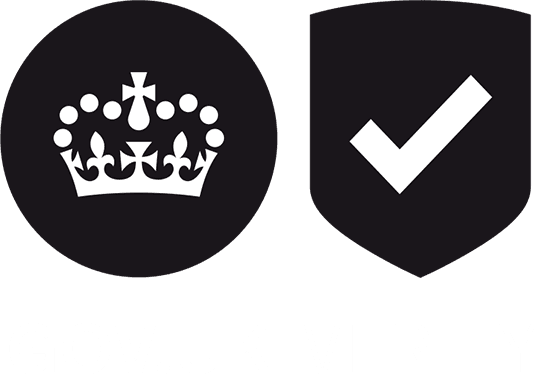
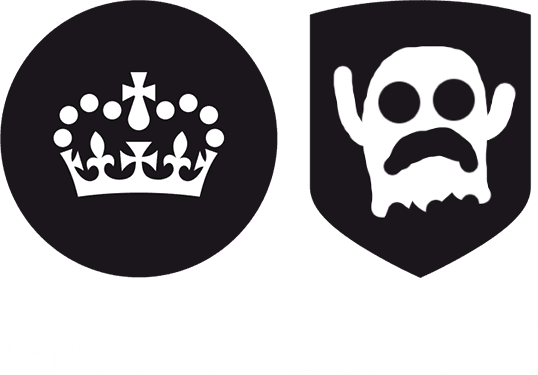
TT-547: Add a more interesting B variant
Author: @vixus0

Changed region(s): [[0.5948, 0.1173, 0.9814, 0.5867]]

diff --git a/app/assets/stylesheets/pages/_slides.scss b/app/assets/stylesheets/pages/_slides.scss
@@ -1,9 +1,11 @@
 // Slides layout
 // ==========================================================================
 
+$spooky-orange: #FF9900;
+
 .slides {
 
-  background-color: $mainstream-brand;
+  background-color: $spooky-orange;
   color: $white;
 
   margin-top: $gutter-half;

diff --git a/app/assets/stylesheets/style.scss b/app/assets/stylesheets/style.scss
@@ -1,1 +1,13 @@
 @import "application";
+
+$spooky-orange: #FF9900;
+
+body {
+  background-color: $black !important;
+  color: $white !important;
+}
+
+// scss-lint:disable IdSelector
+#global-header-bar {
+  background-color: $spooky-orange !important;
+}

diff --git a/spec/features/users_browser_sends_client_side_analytics_spec.rb b/spec/features/users_browser_sends_client_side_analytics_spec.rb
@@ -32,7 +32,7 @@ RSpec.describe 'When the user visits the start page' do
       )
       set_session_and_session_cookies!
       visit '/start'
-      expect(page).to have_content 'Sign in with GOV.UK Verify'
+      expect(page).to have_content 'Get spooky with GOV.UK Scarify'
     end
 
     it 'and in Welsh sends the page title in English to analytics' do
@@ -64,7 +64,7 @@ RSpec.describe 'When the user visits the start page' do
     it 'sends a page view to analytics' do
       set_session_and_session_cookies!
       visit '/start'
-      expect(page).to have_content 'Sign in with GOV.UK Verify'
+      expect(page).to have_content 'Get spooky with GOV.UK Scarify'
       noscript_image = page.find(:id, 'piwik-noscript-tracker')
       expect(noscript_image).to_not be_nil
       image_src = noscript_image['src']

diff --git a/spec/features/user_visits_start_page_spec.rb b/spec/features/user_visits_start_page_spec.rb
@@ -6,7 +6,7 @@ RSpec.describe 'When the user visits the start page' do
   it 'will display the start page in English' do
     set_session_and_session_cookies!
     visit '/start'
-    expect(page).to have_content 'Sign in with GOV.UK Verify'
+    expect(page).to have_content 'Get spooky with GOV.UK Scarify'
     expect(page).to have_css 'html[lang=en]'
     expect_feedback_source_to_be(page, 'START_PAGE', '/start')
   end

diff --git a/spec/features/requests_fingerprint_asset_spec.rb b/spec/features/requests_fingerprint_asset_spec.rb
@@ -29,7 +29,6 @@ RSpec.describe 'When the user visits the start page' do
 
       visit '/start'
 
-      expect(page).to have_content 'Sign in with GOV.UK Verify'
       expect(query_params_hash).to_not be_nil
       expect(query_params_hash['hash']).to match(/^[0-9]+\-[a-z0-9]+$/)
     end
